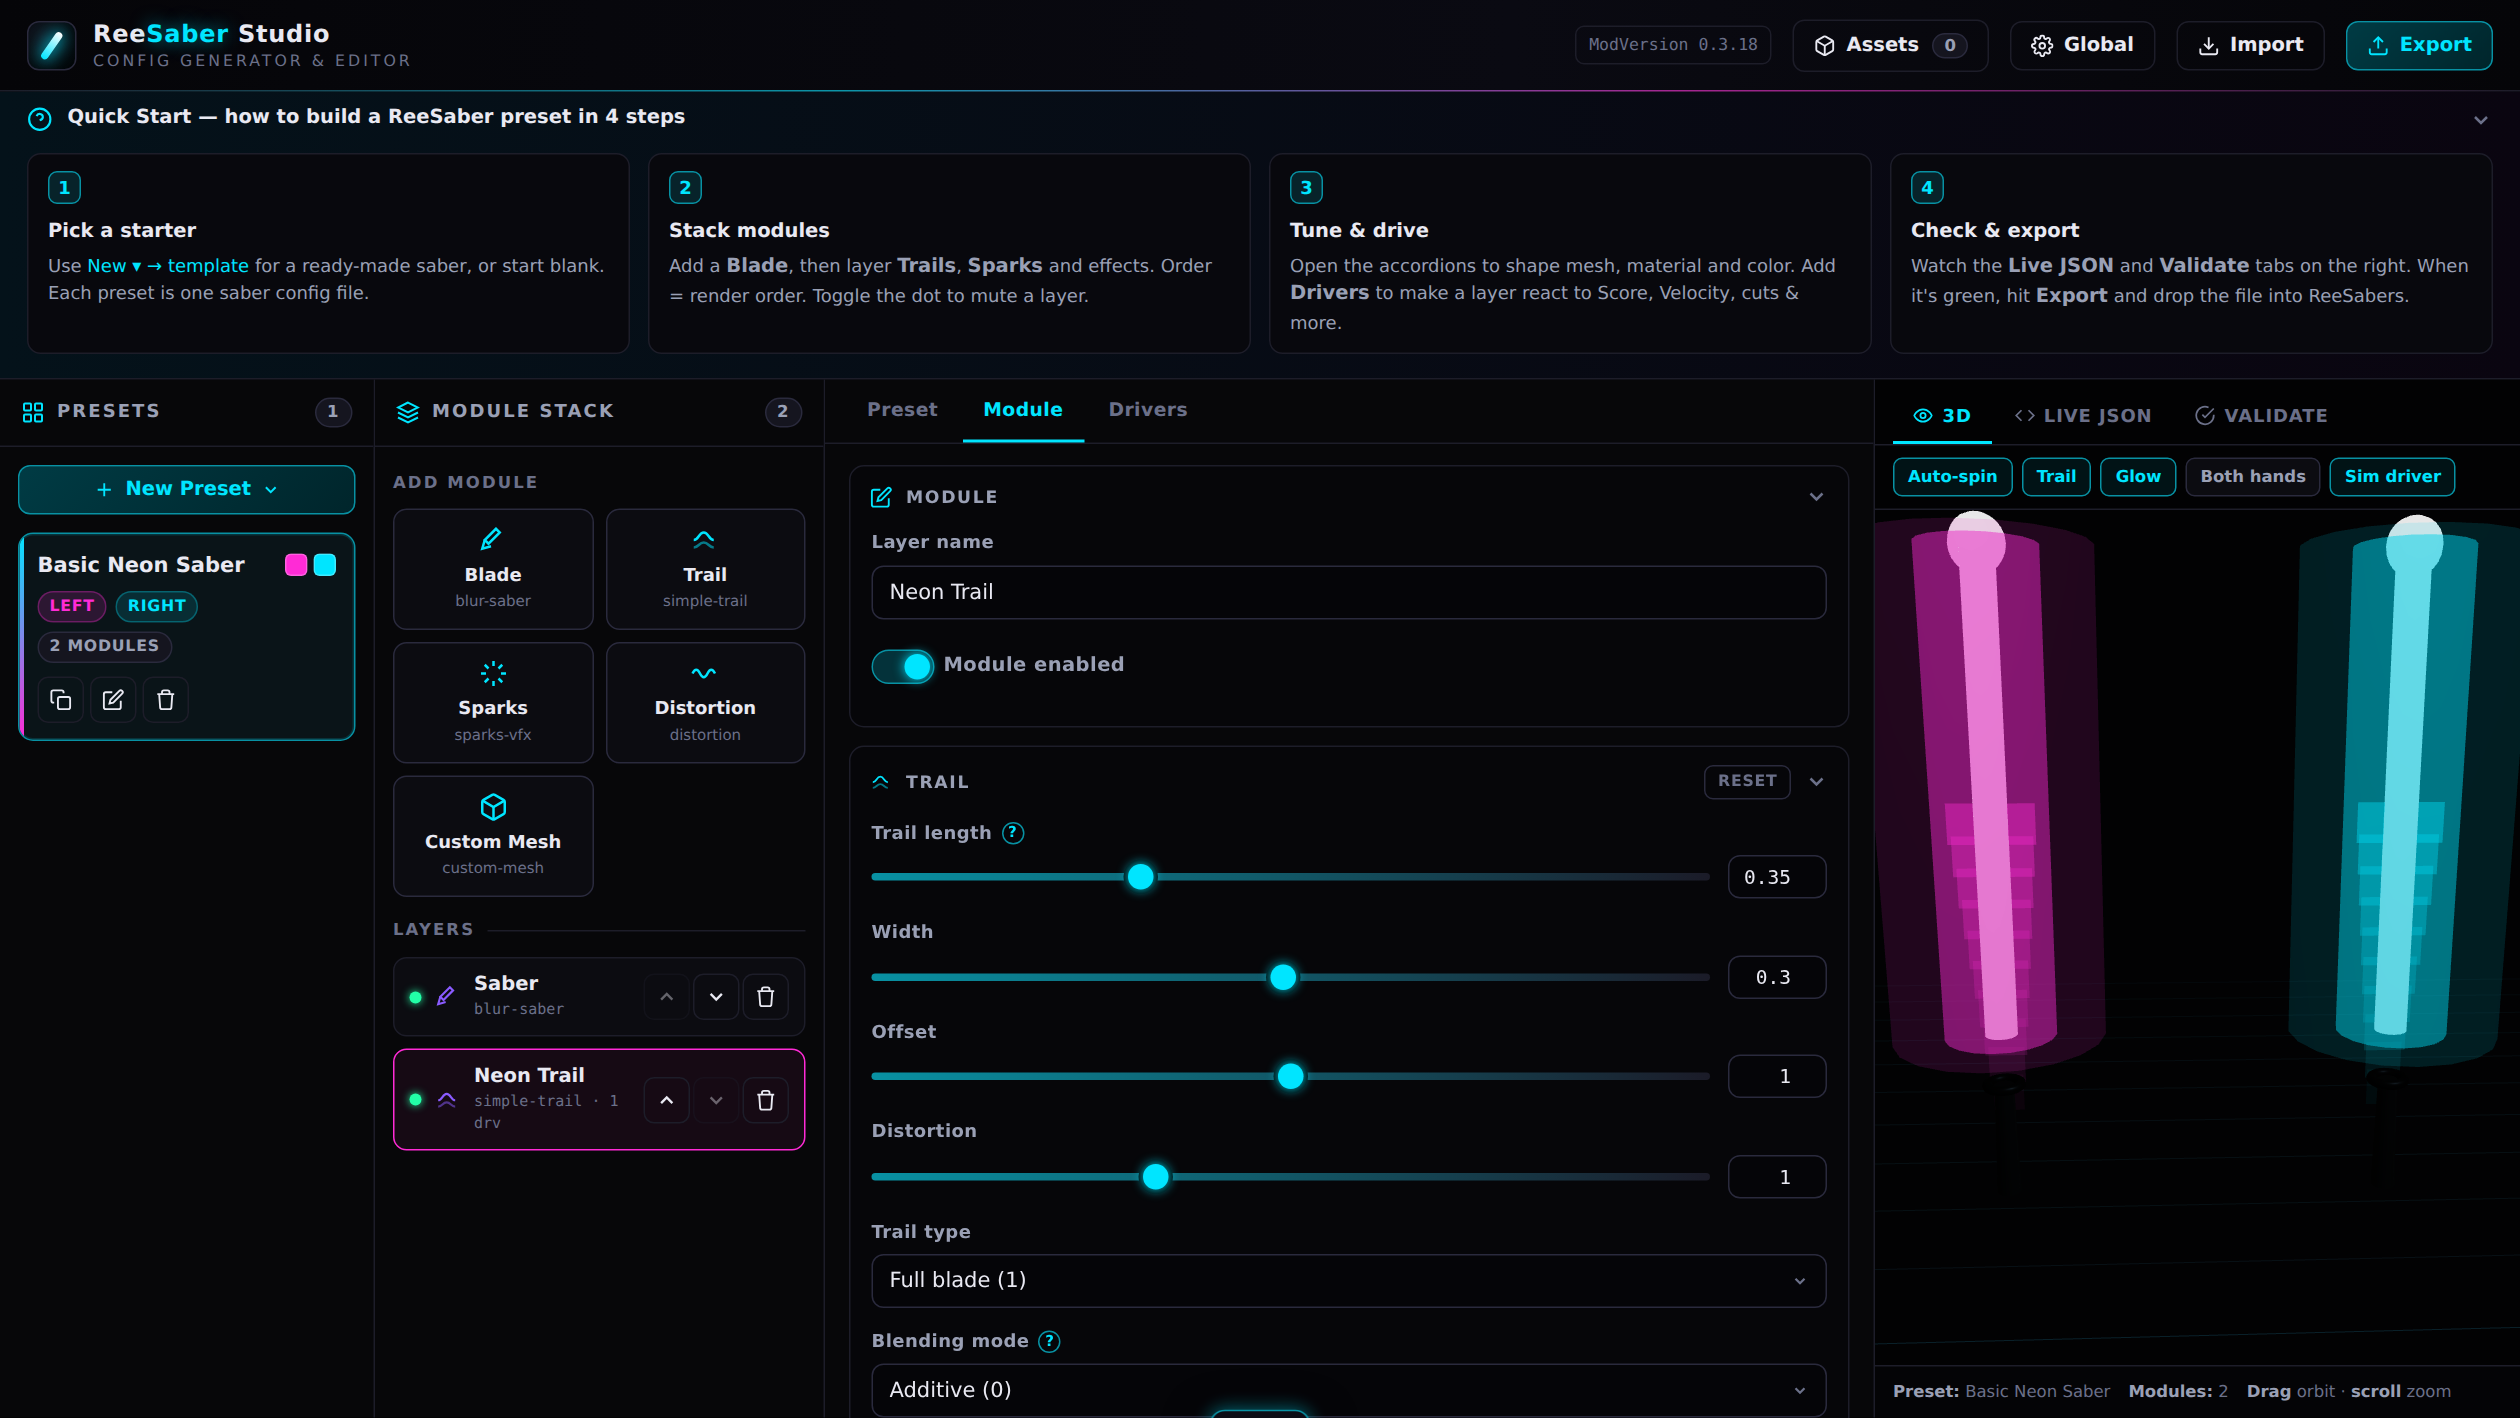
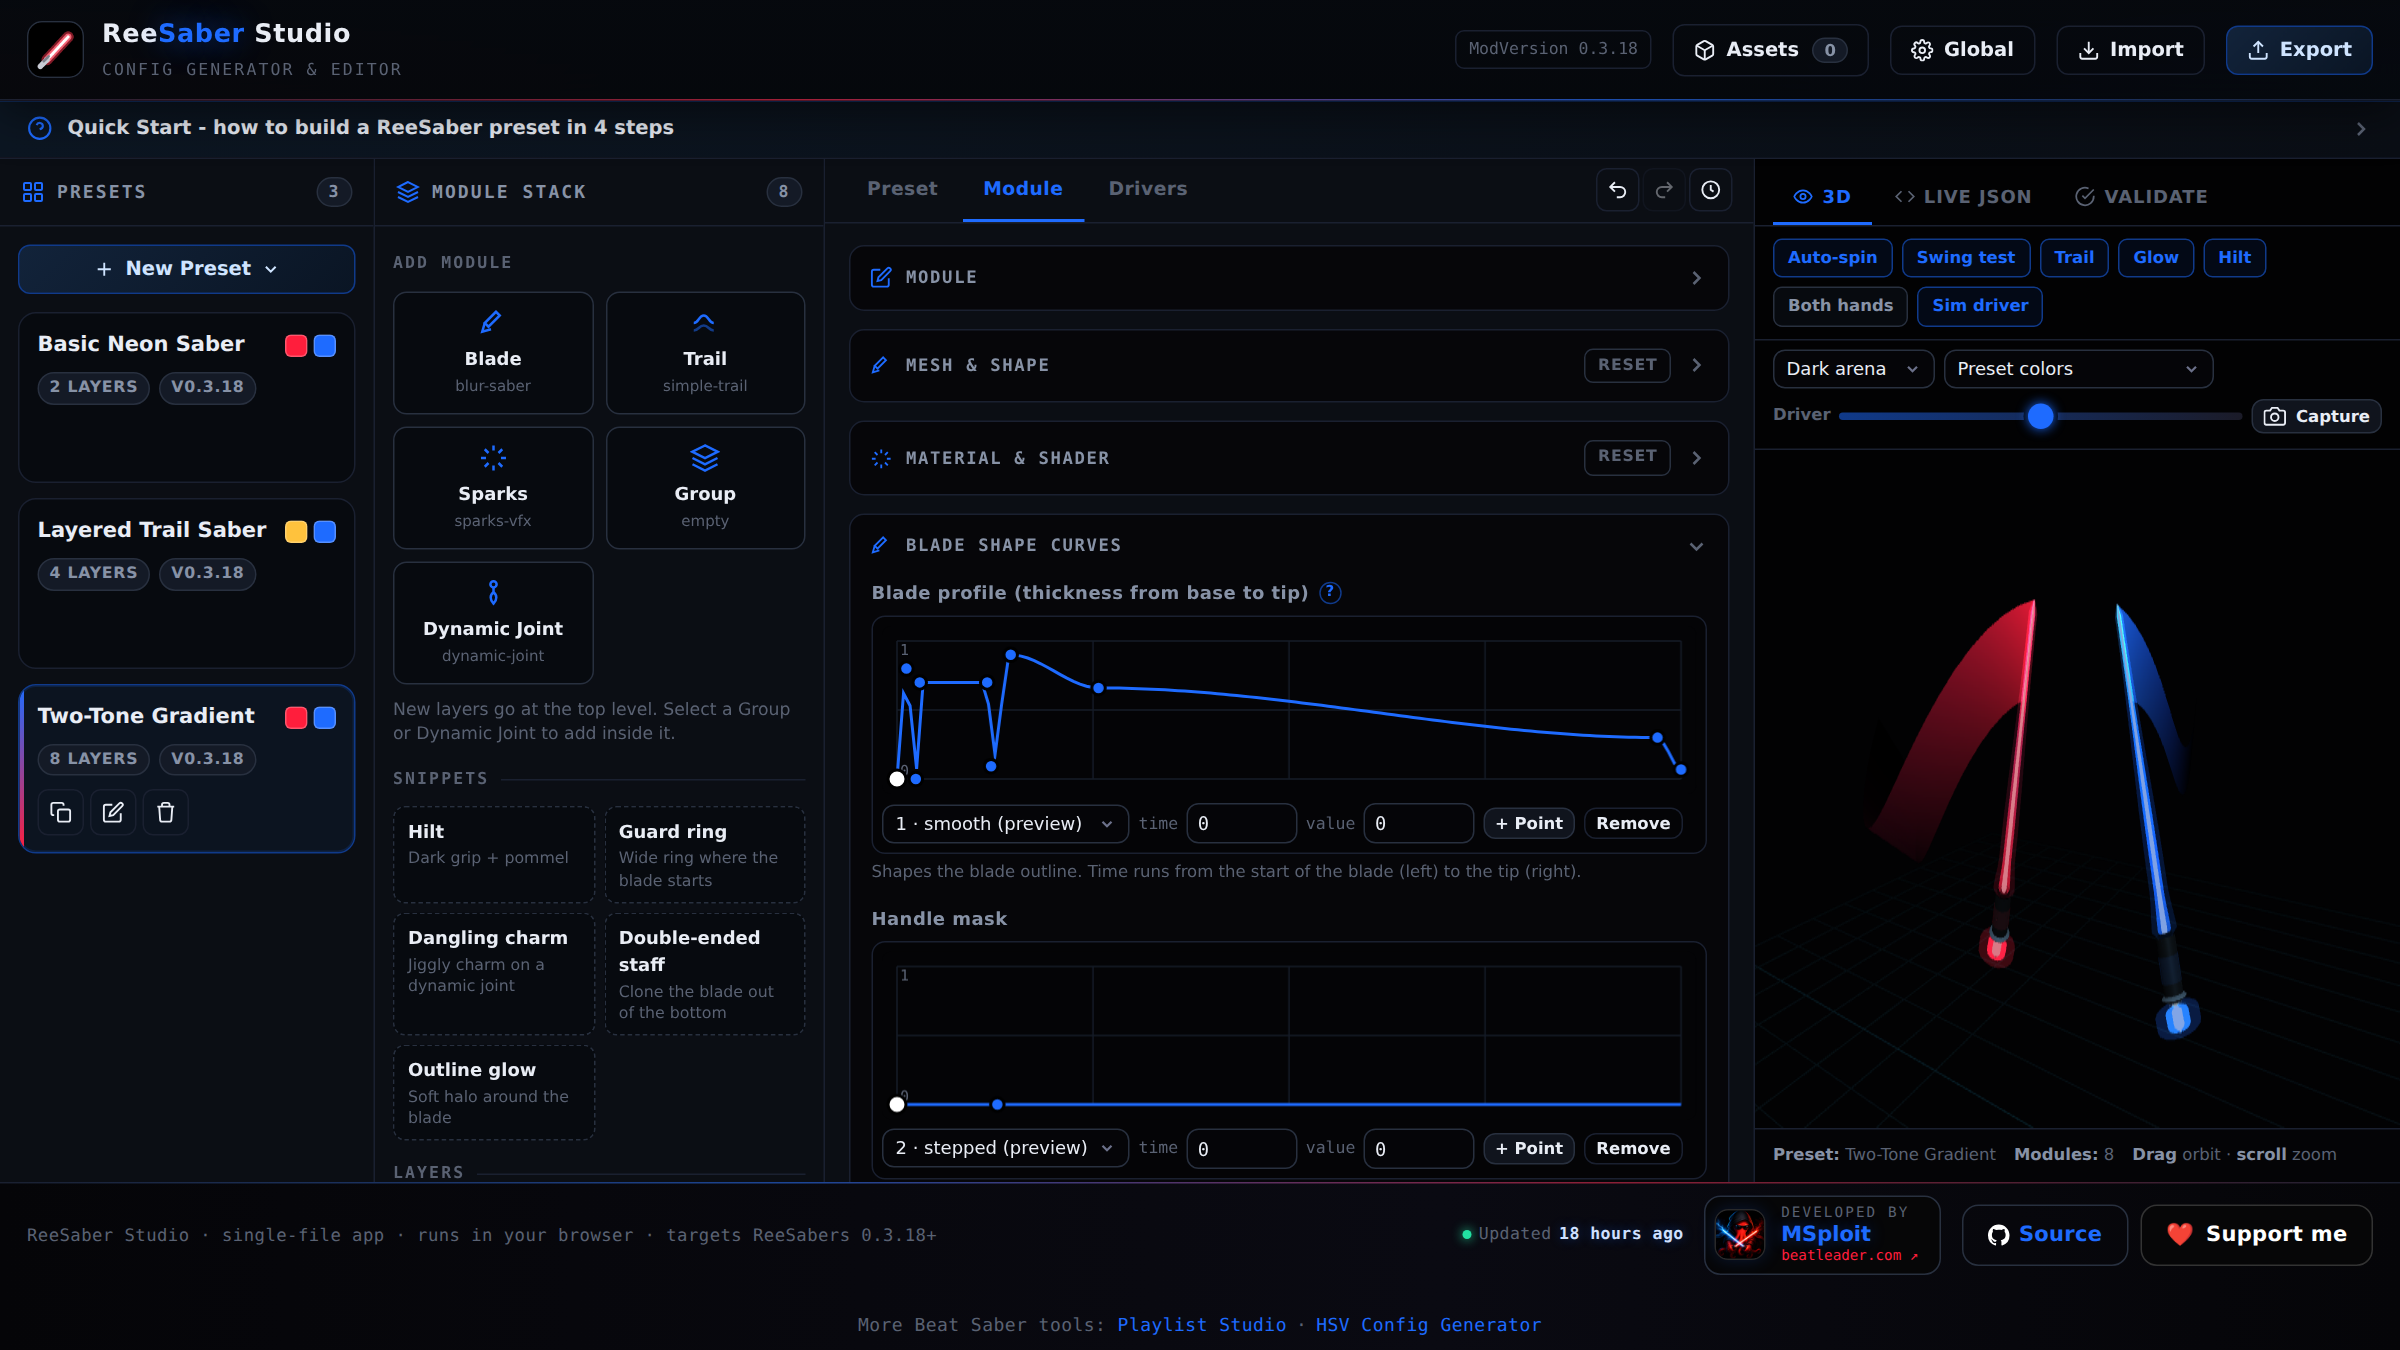
Refresh README screenshot and add link-preview image

diff --git a/index.html b/index.html
@@ -12,9 +12,12 @@
 <meta property="og:title" content="ReeSaber Studio - ReeSabers Config &amp; Preset Editor" />
 <meta property="og:description" content="Build and edit ReeSabers saber presets visually, preview live, and export a ready-to-use config. No install, no account." />
 <meta property="og:url" content="https://spanky3651.github.io/ReeSaber-Studio/" />
-<meta name="twitter:card" content="summary" />
+<meta property="og:image" content="https://spanky3651.github.io/ReeSaber-Studio/docs/screenshot.png" />
+<meta property="og:image:alt" content="ReeSaber Studio editor with the curve editor and a swinging saber preview" />
+<meta name="twitter:card" content="summary_large_image" />
 <meta name="twitter:title" content="ReeSaber Studio - ReeSabers Config &amp; Preset Editor" />
 <meta name="twitter:description" content="Build and edit ReeSabers saber presets visually, preview live, and export a ready-to-use config." />
+<meta name="twitter:image" content="https://spanky3651.github.io/ReeSaber-Studio/docs/screenshot.png" />
[1 lines of base64/hex data omitted]
 <style>
   :root{
@@ -697,7 +700,7 @@ input.mini-color{width:36px;height:30px;padding:2px;border-radius:7px;border:1px
     <div class="foot-left">ReeSaber Studio · single-file app · runs in your browser · targets ReeSabers 0.3.18+</div>
     <div class="foot-right">
       <div class="foot-count" id="footCount" hidden></div>
-      <span class="foot-updated" id="footUpdated" data-updated="2026-10-12T17:12:47Z">Last updated recently</span>
+      <span class="foot-updated" id="footUpdated" data-updated="2026-10-13T11:34:16Z">Last updated recently</span>
       
       <a class="credit" href="https://beatleader.com/u/msploit" target="_blank" rel="noopener" title="MSploit on BeatLeader" onclick="try{window.goatcounter&amp;&amp;window.goatcounter.count({path:'profile-reesaber',title:'BeatLeader profile',event:true})}catch(e){}">
[1 lines of base64/hex data omitted]

diff --git a/README.md b/README.md
@@ -6,7 +6,7 @@
 
 ReeSaber Studio lets you build and edit ReeSabers presets in your browser: stack and nest layers, tune materials, wire up gameplay-reactive drivers, add your own textures, and export a ready-to-use `.json` or `.reesaber` file. No build step, no install, no backend. The whole app is one HTML file.
 
-![ReeSaber Studio: the editor with the live 3D preview](docs/screenshot.png)
+![ReeSaber Studio: the curve editor with a swing test running in the live 3D preview](docs/screenshot.png)
 
 ---
 
@@ -104,7 +104,7 @@ ReeSaber-Studio/
 ├── index.html        # the whole app (served by GitHub Pages)
 ├── gallery/          # community presets: index.json, preset files and thumbnails
 ├── docs/
-│   └── screenshot.png
+│   └── screenshot.png   # README image, also used as the link preview image
 ├── README.md
 ├── LICENSE
 └── .gitignore
